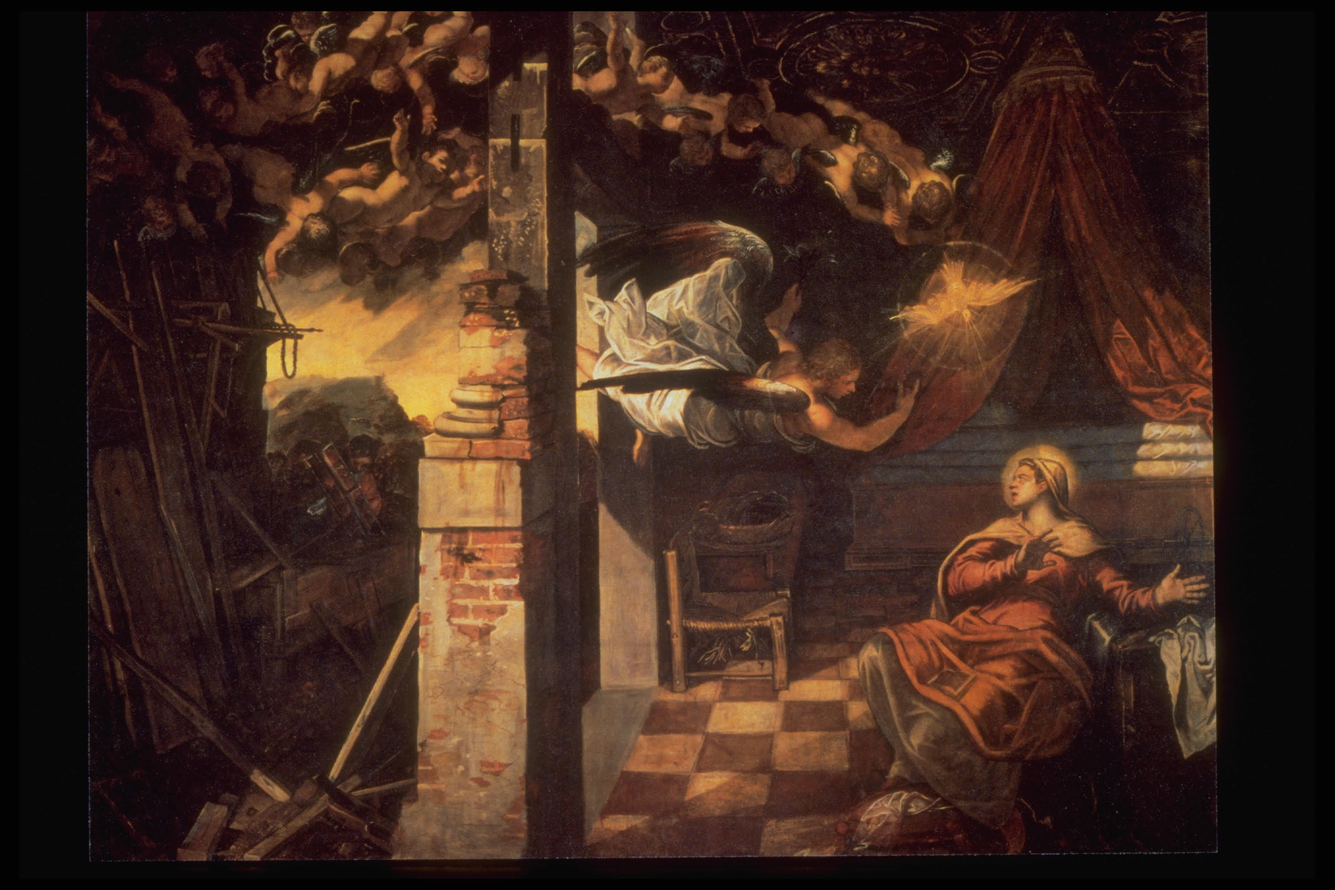
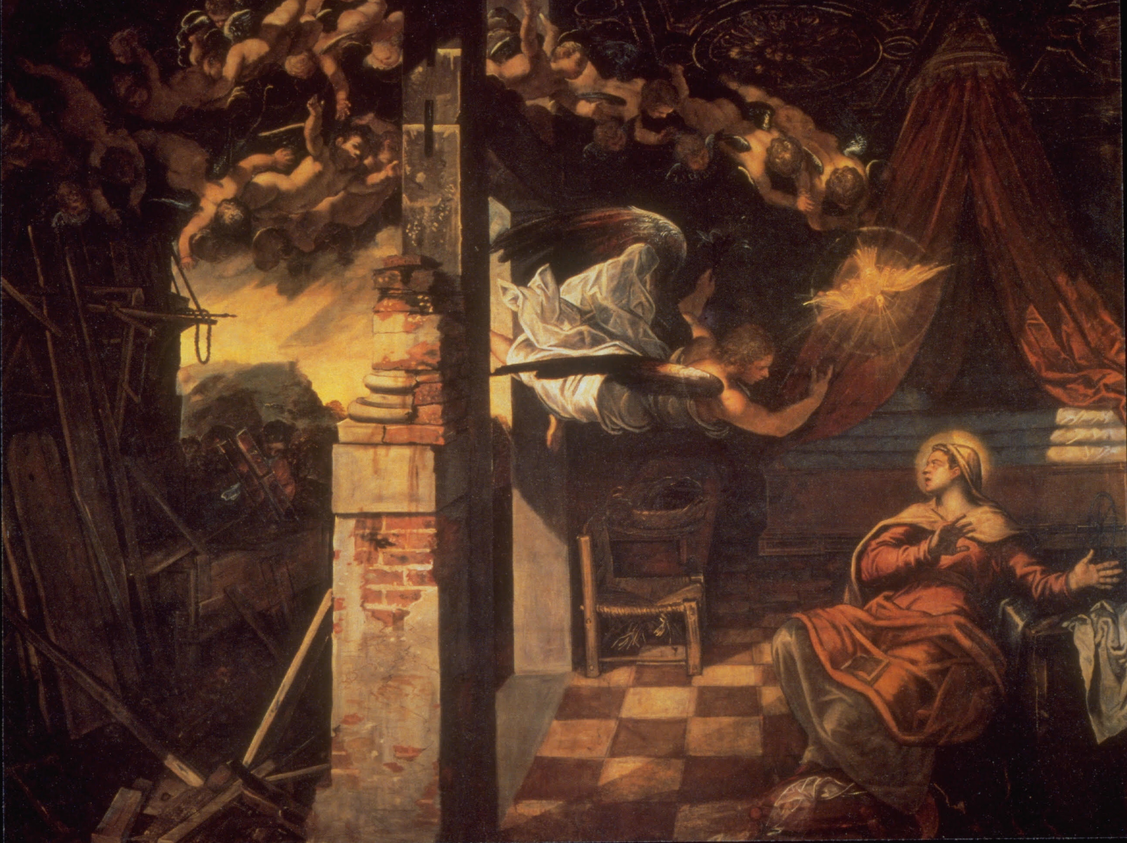
v0.5p: Content card images

diff --git a/__components/model/form_sections/form_section_chapter/form_section_chapter.js b/__components/model/form_sections/form_section_chapter/form_section_chapter.js
@@ -1,7 +1,6 @@
 // @ts-nocheck
 const {version} = await import(`/scripts/version.js?v=${Math.floor(Date.now() / 86400000)}`);
 const {CufFormSection} = await import(`../form_section/form_section.js?v=${version}`);
-const {CufTextArea} = await import(`../../text_area/text_area.js?v=${version}`);
 await import(`../form_section_address/form_section_address.js?v=${version}`);
 await import(`../../input_text/input_text.js?v=${version}`);
 
@@ -47,12 +46,35 @@ export class CufFormSectionChapter extends CufFormSection {
    */
 
   /**
+   * @typedef {Object} DisplayableChapterData
+   * @property {string} name
+   * @property {Object} address
+   * @property {string=} website_link
+   * @property {string=} facebook_link
+   * @property {string=} email_address
+   */
+
+  /**
    * Returns map of chapter data for the chapter form section
    * @return {ChapterFormData}
    */
   getFormData() {
     const name = this.shadowRoot.getElementById('chapter-name').getFormData();
     const address = this.shadowRoot.getElementById('chapter-address').getFormData();
+    const website_link = this.shadowRoot.getElementById('website-link').getFormData();
+    const facebook_link = this.shadowRoot.getElementById('facebook-link').getFormData();
+    const email_address = this.shadowRoot.getElementById('email-address').getFormData();
+    return {'name': name, 'address': address, 'website_link': website_link,
+      'facebook_link': facebook_link, 'email_address': email_address};
+  }
+
+  /**
+   * Returns map of chapter data for the chapter form section
+   * @return {DisplayableChapterData}
+   */
+  getDisplayableData() {
+    const name = this.shadowRoot.getElementById('chapter-name').getFormData();
+    const address = this.shadowRoot.getElementById('chapter-address').getDisplayableData();
     const website_link = this.shadowRoot.getElementById('website-link').getFormData();
     const facebook_link = this.shadowRoot.getElementById('facebook-link').getFormData();
     const email_address = this.shadowRoot.getElementById('email-address').getFormData();
@@ -70,6 +92,45 @@ export class CufFormSectionChapter extends CufFormSection {
     this.shadowRoot.getElementById('website-link').form_field.value = data.website_link;
     this.shadowRoot.getElementById('facebook-link').form_field.value = data.facebook_link;
     this.shadowRoot.getElementById('email-address').form_field.value = data.email_address;
+  }
+
+  /**
+   * @typedef {Object} SaveableData
+   * @property {string} title
+   * @property {string=} titlelink
+   * @property {string=} description
+   */
+
+  /**
+   * Returns SaveableData representing html content of a CUF chapter
+   * @return {SaveableData}
+   */
+  getSaveableData() {
+    const data = this.getDisplayableData();
+    let description_html = '';
+    description_html += `${data.name}`;
+    if (data.address["1"]) {
+      description_html += `<br>${data.address["1"]}`;
+    }
+    if (data.address["2"]) {
+      description_html += `<br>${data.address["2"]}`;
+    }
+    if (data.address["3"]) {
+      description_html += `<br>${data.address["3"]}`;
+    }
+    if (data.website_link) {
+      description_html += `<br>${data.website_link}`;
+    }
+    if (data.website_link) {
+      description_html += `<br>${data.website_link}`;
+    }
+    if (data.facebook_link) {
+      description_html += `<a href="${data.facebook_link}">Connect with them no Facebook</a>`;
+    }
+    if (data.email_address) {
+      description_html += `<a href="mailto:${data.email_address}">Email Address</a>`;
+    }
+    return {title: "", titlelink: "", description: description_html};
   }
 
   /**

diff --git a/__components/content_card/content_card.js b/__components/content_card/content_card.js
@@ -27,7 +27,20 @@ export class CufContentCard extends HTMLElement {
     if (this.content_key !== 'prayer') {
       this.collapsible = false;
       fixed_height = 462; // 330 * 1.4
-      card_fade_image = 'paintings/annunciation.jpg';
+    }
+    switch(this.content_key) {
+      case 'involvement':
+        card_fade_image = 'paintings/cards/annunciation.jpg';
+        break;
+      case 'chapters':
+        card_fade_image = 'paintings/cards/assumption.jpg';
+        break;
+      case 'papers':
+        card_fade_image = 'paintings/cards/ghent_almighty.jpg';
+        break;
+      default:
+        card_fade_image = '';
+        break;
     }
     const shadow = this.attachShadow({mode: 'open'});
     const res = await fetch(`/__components/content_card/content_card.html?v=${version}`);

diff --git a/__components/model/form_sections/form_section_address/form_section_address.js b/__components/model/form_sections/form_section_address/form_section_address.js
@@ -66,7 +66,7 @@ export class CufFormSectionAddress extends CufFormSection {
 
   /**
    * Returns map of form data for the form section
-   * @return {string}
+   * @return {Object}
    */
   getDisplayableData() {
     const address1 = this.shadowRoot.getElementById('address-first').getFormData();
